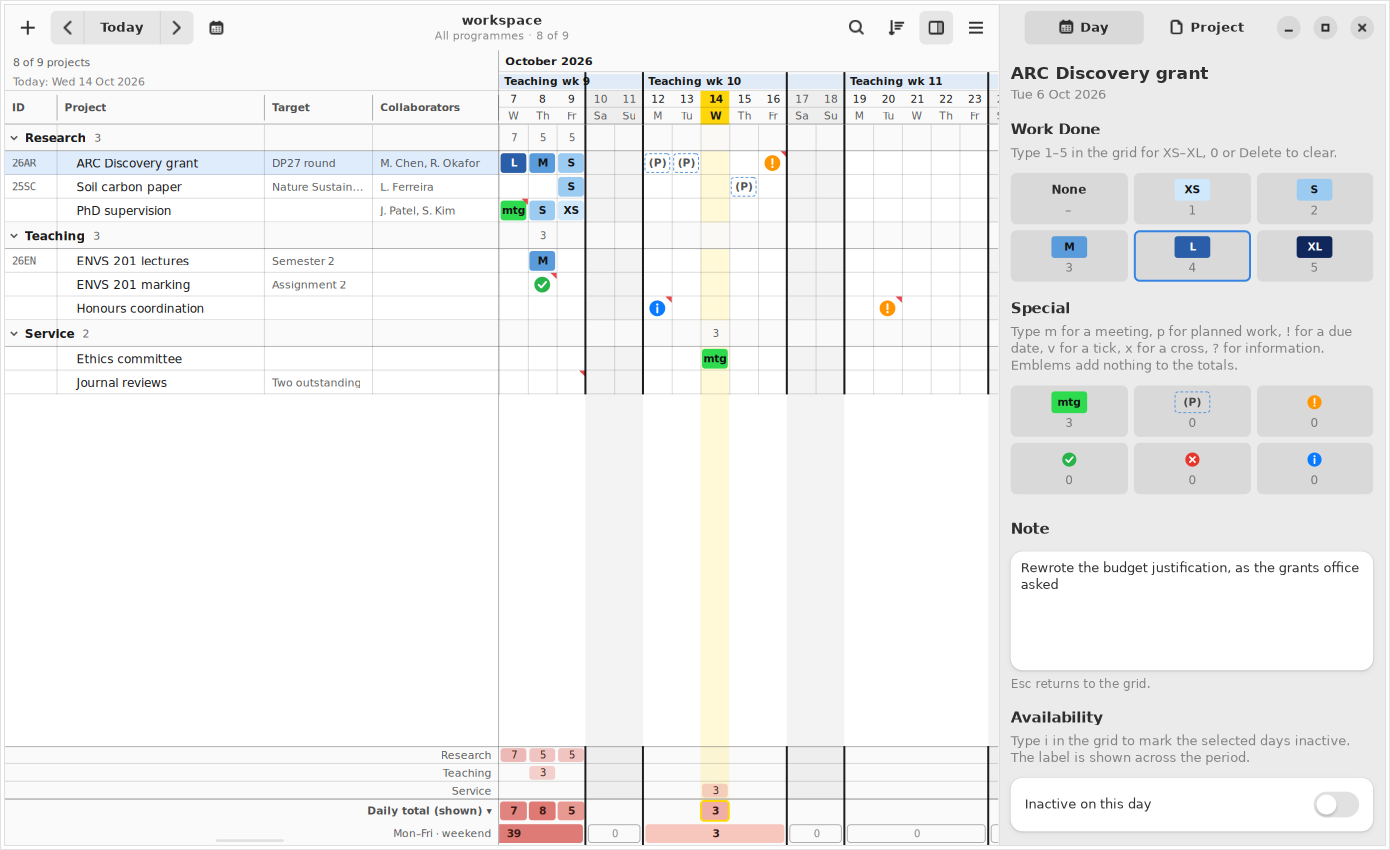
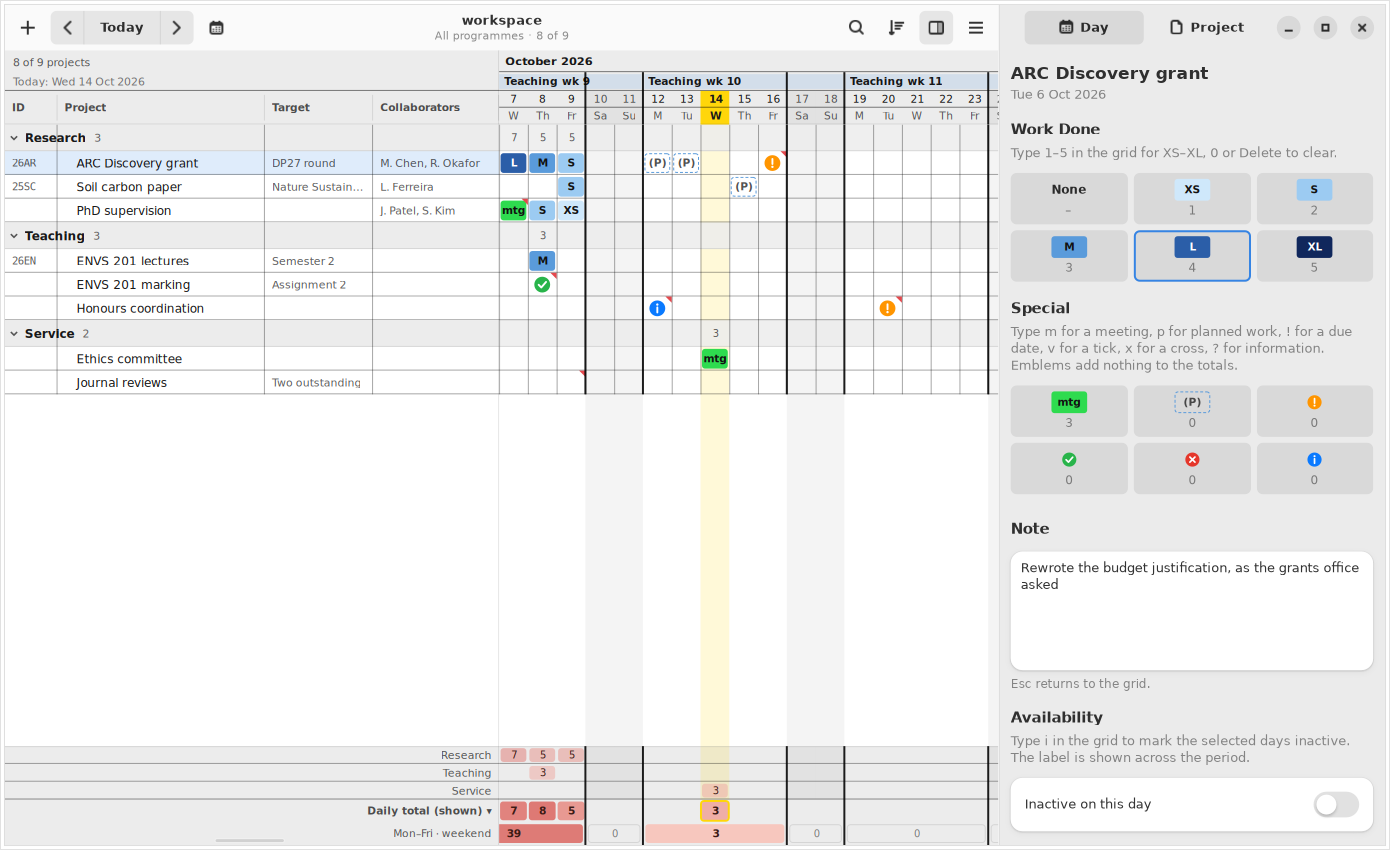
[AI-assisted] [fix] Match the macOS edition's grid line, pane and hatch strengths
AppKit's withAlphaComponent replaces a colour's alpha rather than scaling it, so the macOS grid draws its lines at 35 % and header rules at 50 % foreground on #ECECEC panes, about three times stronger than the port did; the palette now uses those effective values as named constants. Inactive-day hatching is kept slightly stronger than on macOS to allow for softer antialiasing on GNOME, line widths account for fractional display scaling, and the screenshots and maintenance notes are updated.

diff --git a/qdvc/gtk4/gtk4_grid.py b/qdvc/gtk4/gtk4_grid.py
@@ -486,7 +486,14 @@ class ProgressGrid(Gtk.DrawingArea, Gtk.Scrollable):
         # Whole device pixels: with a fractional scroll offset every line
         # would be blended over two pixels at half strength.
         sf = max(1, self.get_scale_factor())
-        self._px = 1.0 / sf
+        # One device pixel, or more under fractional scaling (125 %, 150 %),
+        # where the drawing may be rendered at the next whole scale and
+        # shrunk, which would thin one-pixel lines again.
+        native = self.get_native()
+        surface = native.get_surface() if native is not None else None
+        scale = surface.get_scale() if surface is not None and hasattr(surface, "get_scale") \
+            else sf
+        self._px = math.ceil(sf / max(scale, 1.0) - 1e-6) / sf if scale else 1.0 / sf
         ox, oy = round(self.ox * sf) / sf, round(self.oy * sf) / sf
         days = m.days_in(ox, ox + bw)
         rows = m.rows_in(oy, oy + bh)
@@ -572,7 +579,7 @@ class ProgressGrid(Gtk.DrawingArea, Gtk.Scrollable):
             top, h = m.row_tops[r], m.row_tops[r + 1] - m.row_tops[r]
             if row.is_programme:
                 rect(cr, m.day_x(days.start), top, m.day_x(days.stop) - m.day_x(days.start), h,
-                     (*pal.pane_bg[:3], 0.9))
+                     (*pal.pane_bg[:3], 0.85))
                 if s.show_programme_subtotals:
                     for d in days:
                         t = s.programme_total(row.name, s.date_at(d))
@@ -588,8 +595,8 @@ class ProgressGrid(Gtk.DrawingArea, Gtk.Scrollable):
                     continue
                 start, end = max(period.range.start, first_day), min(period.range.end, last_day)
                 x0, x1 = m.day_x(s.day_index(start)), m.day_x(s.day_index(end) + 1)
-                rect(cr, x0, top, x1 - x0, h, pal.tint(0.07))
-                hatch(cr, x0, top, x1 - x0, h, pal.text(0.30))
+                rect(cr, x0, top, x1 - x0, h, pal.tint(pal.INACTIVE_FILL))
+                hatch(cr, x0, top, x1 - x0, h, pal.tint(pal.HATCH))
                 label = period.label.strip()
                 if not label:
                     continue
@@ -631,8 +638,7 @@ class ProgressGrid(Gtk.DrawingArea, Gtk.Scrollable):
                  pal.line(weekstart))
         for r in rows:
             y = m.row_tops[r + 1]
-            w = 1 if s.rows[r].is_programme else self._px
-            rect(cr, ox, y - w, bw, w, pal.line(s.rows[r].is_programme))
+            rect(cr, ox, y - self._px, bw, self._px, pal.line(s.rows[r].is_programme))
         self._working_week_lines(cr, pal, days, m.day_x, y0, bottom - y0)
         self._draw_selection(cr, pal)
 
@@ -720,7 +726,7 @@ class ProgressGrid(Gtk.DrawingArea, Gtk.Scrollable):
 
         self._working_week_lines(cr, pal, days, x, ry[1], h_total - ry[1])
         for i in (1, 2, 3):
-            rect(cr, 0, ry[i] - self._px, bw, self._px, pal.line())
+            rect(cr, 0, ry[i] - self._px, bw, self._px, pal.rule())
         rect(cr, 0, h_total - 1, bw, 1, pal.line(True))
 
     def _draw_left(self, cr, pal, rows, oy, lw, bh):
@@ -743,7 +749,7 @@ class ProgressGrid(Gtk.DrawingArea, Gtk.Scrollable):
                 f.draw(cr, title, 22 * f.scale, y, tw + 2, h, f.programme, pal.text(0.9))
                 f.draw(cr, str(row.count), 22 * f.scale + tw + 8, y, 40, h, f.secondary,
                        pal.text(0.5), numeric=True)
-                rect(cr, 0, y + h - 1, lw, 1, pal.line(True))
+                rect(cr, 0, y + h - self._px, lw, self._px, pal.line(True))
                 continue
             p = s.project(row.key)
             if p is None:
@@ -800,7 +806,7 @@ class ProgressGrid(Gtk.DrawingArea, Gtk.Scrollable):
                 title += " \u25b2" if s.query.ascending else " \u25bc"
             f.draw(cr, title, cx + 7, top, cw - 12, hh, f.header_bold, pal.text(0.6))
             rect(cr, cx + cw - 1, top + 4, 1, hh - 8, pal.line(True))
-        rect(cr, 0, top - self._px, lw, self._px, pal.line())
+        rect(cr, 0, top - self._px, lw, self._px, pal.rule())
         rect(cr, 0, m.header_h - 1, lw, 1, pal.line(True))
         rect(cr, lw - 1, 0, 1, m.header_h, pal.line(True))
 

diff --git a/qdvc/gtk4/gtk4_paint.py b/qdvc/gtk4/gtk4_paint.py
@@ -19,8 +19,34 @@ from ..labels import CellLabel  # noqa: E402
 
 
 class Palette:
-    """Neutral colours from the current libadwaita theme (light or dark,
-    high contrast, accent colour), as (r, g, b, a)."""
+    """The grid's neutral colours, as (r, g, b, a), from the libadwaita theme
+    (light or dark, high contrast, accent colour) but with the macOS
+    edition's strengths.
+
+    The macOS edition draws with ``NSColor.separatorColor.withAlphaComponent(x)``,
+    which *replaces* the separator's own 10 % alpha: its grid lines are 35 %
+    foreground and its header rules 50 %, while unmodified separators (pane
+    edges, week starts) are 10 % at twice the width. Its frozen panes are
+    ``windowBackgroundColor`` (#ECECEC), a clearly darker grey than
+    libadwaita's window colour (#FAFAFA), so the panes are mixed here from
+    the view colour and the foreground instead of taken from the theme.
+    """
+
+    #: Alphas of the foreground, as in the macOS edition.
+    GRID_LINE = 0.35      # day and row lines (0.5 pt on macOS: one device pixel)
+    HEADER_RULE = 0.5     # between the header's rows
+    SEPARATOR = 0.10      # pane edges, week starts, month and week dividers (1 pt)
+    PANE_TINT = (0.075, 0.09)   # light, dark: the panes' step from the view colour
+    #: Inactive days. The macOS edition hatches at 28 %; thin diagonal lines
+    #: are antialiased softer on GNOME's typical 1× and fractional displays
+    #: than on a Retina Mac, so they are stronger here to look the same.
+    INACTIVE_FILL = 0.06
+    HATCH = 0.45
+
+    #: Greys are drawn this much nearer to the full foreground than their
+    #: nominal alpha (0.55 → 0.64, 0.35 → 0.48). GTK's grayscale text makes
+    #: dimmed text look lighter than AppKit's at the same alpha.
+    GREY_CONTRAST = 0.2
 
     def __init__(self, widget: Gtk.Widget):
         dark = Adw.StyleManager.get_default().get_dark()
@@ -28,8 +54,9 @@ class Palette:
         fg = widget.get_color()
         self.fg = (fg.red, fg.green, fg.blue, 1.0)
         self.view_bg = self._lookup(widget, "view_bg_color", (0.118,) * 3 if dark else (1.0,) * 3)
-        self.pane_bg = self._lookup(widget, "window_bg_color",
-                                    (0.141,) * 3 if dark else (0.98,) * 3)
+        t = self.PANE_TINT[1 if dark else 0]
+        self.pane_bg = tuple(v + (f - v) * t for v, f in zip(self.view_bg[:3], self.fg[:3])) \
+            + (1.0,)
         self.accent = self._accent(widget)
 
     @staticmethod
@@ -51,12 +78,6 @@ class Palette:
             return (c.red, c.green, c.blue, 1.0)
         return self._lookup(widget, "accent_bg_color", (0.208, 0.518, 0.894))
 
-    #: Greys are drawn this much nearer to the full foreground than their
-    #: nominal alpha (0.55 → 0.64, 0.35 → 0.48). GTK's grayscale text and
-    #: 1× screens make dimmed text look lighter than AppKit's at the same
-    #: alpha; this keeps the grid's secondary text as legible as on a Mac.
-    GREY_CONTRAST = 0.2
-
     def text(self, alpha=1.0):
         """The foreground, at ``alpha`` (0.55 secondary, 0.35 tertiary)."""
         if alpha < 0.9:
@@ -64,17 +85,20 @@ class Palette:
         return (*self.fg[:3], alpha)
 
     def line(self, strong=False):
-        """Grid lines; drawn one device pixel wide (see ProgressGrid._px)."""
-        if self.dark:
-            return (*self.fg[:3], 0.26 if strong else 0.13)
-        return (*self.fg[:3], 0.30 if strong else 0.14)
+        """``line()``: a grid line, one device pixel wide. ``line(True)``: a
+        separator (pane edges, week starts), one unit wide."""
+        return (*self.fg[:3], self.SEPARATOR if strong else self.GRID_LINE)
+
+    def rule(self):
+        """The lines between the header's rows, one device pixel wide."""
+        return (*self.fg[:3], self.HEADER_RULE)
 
     def tint(self, alpha):
         return (*self.fg[:3], alpha)
 
     @property
     def weekend(self):
-        return self.tint(0.06 if self.dark else 0.05)
+        return self.tint(0.045)
 
 
 def rgba(cr, c, alpha: float | None = None) -> None:

diff --git a/ai-assistance-logs/2026-10-14-claude.md b/ai-assistance-logs/2026-10-14-claude.md
@@ -211,3 +211,49 @@ Recommended commit message:
 Grid lines were drawn half a pixel wide at half-pixel positions, with a fractional scroll offset, so on 1× screens they were blended over two pixels at half strength; the grid now draws on whole device pixels, matching the macOS edition's 0.5 pt Retina lines. Grid lines, inactive-day hatching and the weekend tint are a step darker, and dimmed text gets a little more contrast through one palette constant, leaving the label and totals colours unchanged.
 
 Co-authored-by: Claude <noreply@anthropic.com>
+
+_Committed as 3f91eac957adf171455621794dc5dbc2d2b966aa_
+
+## 7. User request
+
+Still seems a bit towards the lighter side, could you please check a bit more?
+
+## 8. LLM response
+
+I'll measure this rather than eyeball it. First, what colours the code actually resolves from the theme, and the pixel values that land on screen for a grid line, the hatching and grey text:
+
+You were right that it was still too light: I had misread how the Mac app sets its greys, so my lines were about a third as dark as the Mac's. The grid now uses the Mac's real strengths, and the side-by-side render and pixel measurements show the difference clearly.
+
+When I ported the colours, I took the Mac's "35% separator" grid lines to mean 35% of an already very pale grey. In fact macOS sets them to 35% black outright. So my lines were roughly 9–14% where the Mac's are 35%, and the lines between header rows were 14% where the Mac's are 50%.
+
+Separately, the Mac draws the header, project columns and totals on a mid grey (#ECECEC). I used GNOME's window colour (#FAFAFA), which is almost white, so those areas barely stood apart from the grid.
+
+The grid now uses the Mac's actual values:
+
+| | Before (two rounds ago) | Last round | Now | Mac |
+| --- | --- | --- | --- | --- |
+| Grid lines (day and row) | 9%, blurred | 14% | **35%** | 35% |
+| Lines between header rows | 9% | 14% | **50%** | 50% |
+| Header, project and totals background | #FAFAFA | #FAFAFA | **≈#ECECEC** | #ECECEC |
+| Inactive-day hatching | 22% | 30% | **45%** | 28% |
+
+Measured on screen, a body row line now renders at pixel value 156; it was 218 originally (255 is white).
+
+- **Hatching:** this is deliberately stronger than the Mac's number. Thin diagonal lines come out softer on GNOME than on a Retina Mac, and the earlier, already stronger setting still looked too light to you.
+- **Grey text:** the small extra contrast on dim text from last round stays.
+- **Fractional scaling:** line widths now follow your display's real scale, so the lines don't thin out at 125% or 150%.
+- **Unchanged:** the label and totals colours.
+
+Dark mode uses the same strengths in white, with the panes one step lighter than the grid, as macOS does it.
+
+If it still reads lighter than your Mac, a screenshot of each at the same date range would help me match them exactly. These strengths are now named settings in `qdvc/gtk4/gtk4_paint.py` (`GRID_LINE`, `HEADER_RULE`, `SEPARATOR`, `PANE_TINT`, `HATCH`, `GREY_CONTRAST`), so adjusting them is a one-line change. `docs/MAINTENANCE.md` records the macOS alpha detail so it doesn't get "corrected" back.
+
+Updated codebase: qdvc-progress.zip
+
+Recommended commit message:
+
+[AI-assisted] [fix] Match the macOS edition's grid line, pane and hatch strengths
+
+AppKit's withAlphaComponent replaces a colour's alpha rather than scaling it, so the macOS grid draws its lines at 35 % and header rules at 50 % foreground on #ECECEC panes, about three times stronger than the port did; the palette now uses those effective values as named constants. Inactive-day hatching is kept slightly stronger than on macOS to allow for softer antialiasing on GNOME, line widths account for fractional display scaling, and the screenshots and maintenance notes are updated.
+
+Co-authored-by: Claude <noreply@anthropic.com>

diff --git a/docs/MAINTENANCE.md b/docs/MAINTENANCE.md
@@ -109,12 +109,18 @@ with GLib timeouts and the tests leave inert.
 - The grid's adjustments must be configured whenever `Metrics` changes
   (`ProgressGrid._configure`), or the scrollbars disagree with the content.
 - Grid lines are whole device pixels: `_draw` rounds the scroll offset to
-  device pixels, and thin lines are `self._px` (one device pixel) wide at
-  whole-pixel positions. Never draw a 0.5-unit line or offset a line by 0.5:
-  on a 1× screen cairo blends it over two pixels at half strength, and the
-  grid looks washed out (the macOS edition's 0.5 pt lines are one crisp
-  pixel on a Retina screen). Grey levels are in `gtk4_paint.Palette`
-  (`line()`, `weekend`, and `GREY_CONTRAST` for dimmed text).
+  device pixels, and thin lines are `self._px` wide (one device pixel, more
+  under fractional scaling) at whole-pixel positions. Never draw a 0.5-unit
+  line or offset a line by 0.5: on a 1× screen cairo blends it over two
+  pixels at half strength, and the grid looks washed out.
+- The neutral strengths are the macOS edition's *effective* values, named in
+  `gtk4_paint.Palette`: grid lines 35 % foreground, header rules 50 %,
+  separators 10 %, panes #ECECEC-like (`PANE_TINT`), weekends 4.5 %. Note
+  that AppKit's `withAlphaComponent(x)` replaces a colour's alpha rather than
+  scaling it, so `separatorColor.withAlphaComponent(0.35)` is 35 % black, not
+  35 % of the separator. The inactive hatching (`HATCH`) and dimmed text
+  (`GREY_CONTRAST`) are deliberately a little stronger than on macOS, as
+  GNOME's antialiasing renders them lighter.
 
 ## 4. Deviations from the specification
 
